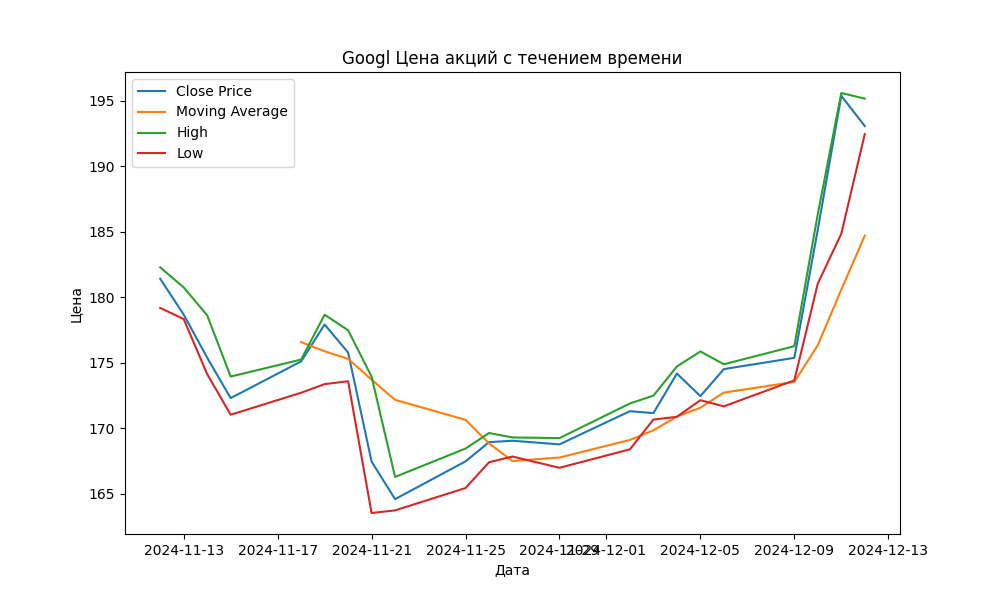
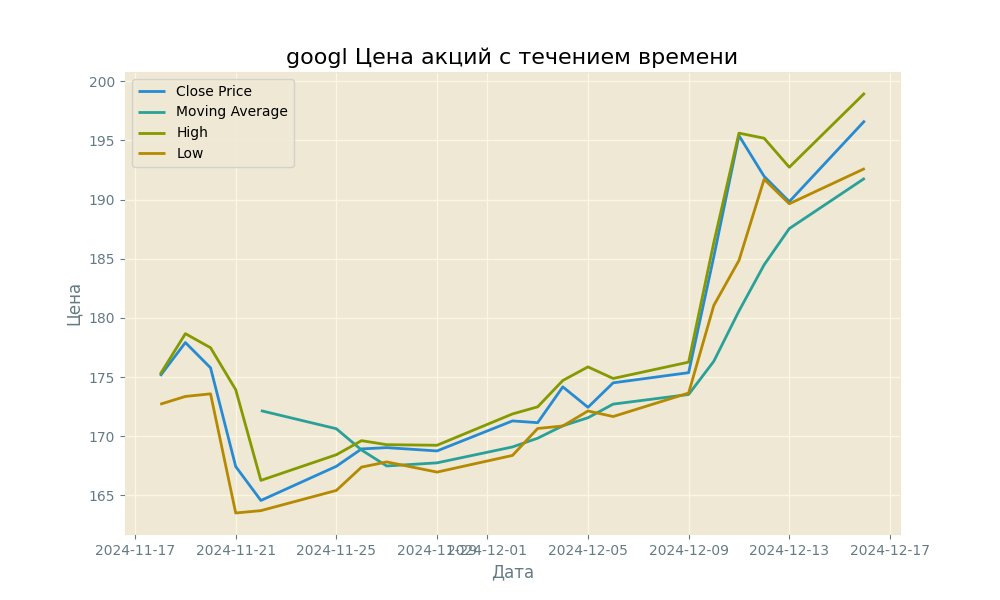
Initial

diff --git a/main.py b/main.py
@@ -10,7 +10,9 @@ def main():
           "AMZN (Amazon.com Inc), TSLA (Tesla Inc).")
     print("Общие периоды времени для данных о запасах включают: 1д, 5д, 1мес, 3мес, 6мес, 1г, "
           "2г, 5г, 10л, " "с начала года, макс.")
+    print()
     print(' ============= Ввод  исходных  данных ==================')
+    print()
     ticker = input("Введите тикер акции (например, «AAPL» для Apple Inc):»")
     x = input("Выберите диапазон дат анализа  данных - период ('P')  либо даты начала и конца ('D) ")
     print(x)
@@ -32,8 +34,9 @@ def main():
     i = int(input("Введите номер желательного стиля графика 'style' из  приведенного списка(0,4,5,8,9,11,16,26):"))
     style = plt.style.available[i]
     print('style =', style)
-
+    print()
     print("******************** POGRAMM  START *****************************")
+    print()
 
     # Fetch stock data
     if x.lower() == 'p':
@@ -56,6 +59,9 @@ def main():
 
     # Price fluctuation  analysis
     dd.notify_if_strong_fluctuations(stock_data, threshold)
+
+    # Standard_deviation of Closed price calculation
+    st_dev = dd.calculate_and_display_standard_deviation(stock_data)
 
     # RSI  calculftion
     rsi = dd.rsi_calculation(stock_data)

diff --git a/data_download.py b/data_download.py
@@ -1,4 +1,5 @@
 import yfinance as yf
+import statistics
 
 
 def fetch_stock_data(ticker, period='1mo'):
@@ -76,7 +77,7 @@ def rsi_calculation(data):
     """
     change = data["Close"].diff()
     change.dropna(inplace=True)
-    print("==========================")
+#    print("==========================")
 
     # Create two copies of the Closing price Series
     change_up = change.copy()
@@ -92,5 +93,17 @@ def rsi_calculation(data):
     avg_up = change_up.rolling(14).mean()
     avg_down = change_down.rolling(14).mean().abs()
     rsi = 100 * avg_up / (avg_up + avg_down)
-
     return rsi
+
+def calculate_and_display_standard_deviation(data):
+    """
+    function get DataFrame(data), calculate
+    standard_deviation price of "Closed" data.
+    Result is printed out in console.
+    """
+    x = statistics.stdev(data['Close'])
+#    x = data['Close'].mean()
+    print('--------------------------------------------------')
+    print('Standard_deviation of Closed price for period  is:', round(x, 3))
+    print('--------------------------------------------------')
+    return x

diff --git a/readme.md b/readme.md
@@ -12,11 +12,11 @@
 
 - Является точкой входа в программу.
 
-- Запрашивает у пользователя тикер акции,  временной период  и   порог  анализа  колебаний  цены; загружает данные, обрабатывает их и выводит результаты на  консоль,  в виде графика  и  сохраненных  файлов.
+- Запрашивает у пользователя тикер акции,  временной период  и   порог  анализа  колебаний  цены; загружает данные, обрабатывает их и выводит результаты на  консоль,  в виде графиков  и  сохраненных  файлов.
 
 #### 2. **data_download.py:**
 
-- Отвечает за загрузку данных об акциях.
+- Отвечает за загрузку и обработку данных об акциях.
 
 - Содержит функции:
 
@@ -27,6 +27,8 @@
         порогом
       - сохранения  файла  данных  в  формате .csv
       - расчета  RSI
+      - расчета стандартного отклонения цены от среднего значения
+    - 
   - 
 -
 
@@ -34,8 +36,8 @@
 
 - Отвечает за визуализацию данных.
 
-- Содержит функции для создания и сохранения графиков цен закрытия и скользящих средних
-- Содержит  функции для  создания и сохранения графиков RSI
+- - Содержит функции для создания и сохранения графиков цен закрытия и скользящих средних
+- - Содержит  функции для  создания и сохранения графиков RSI
 
       
       
@@ -48,42 +50,48 @@
 #### 2. **data_download.py:**
 
 - **fetch_stock_data(ticker, period):** 
-    Получает исторические данные об акциях для указанного тикера и временного периода. Возвращает DataFrame с данными.
+- - Получает исторические данные об акциях для указанного тикера и временного периода. Возвращает DataFrame с данными.
 
 - **fetch_stock_data_1(ticker, start, end):** 
-    Получает данные об акциях для указанного тикера в диапазоне дат "start - end". Возвращает DataFrame с данными.
+- - Получает данные об акциях для указанного тикера в диапазоне дат "start - end". Возвращает DataFrame с данными.
 
 - **add_moving_average(data, window_size):** 
-    Добавляет в DataFrame колонку со скользящим средним, рассчитанным на основе цен закрытия.
+- - Добавляет в DataFrame колонку со скользящим средним, рассчитанным на основе цен закрытия.
 
 - **calculate_and_display_average_price(data):**
-    """
+- - """
     function calculate average price of "Closed" data.
     Result is printed out in console.
     """
 - **notify_if_strong_fluctuations(data, threshold):**
-    """
+- - """
     function get DataFrame(data),  calculate minimum  and maximum
     price, and compare ratio of minimum  and maximum  with
     given threshold. Result is printed out in console.
     """
 - **export_data_to_csv(data, filename):**
-    """
+- - """
     function get DataFrame(data) and save
     data as filename file in .csv format
     """
 - **rsi_calculation(data):**
-    """
-    function get DataFrame(data),  calculate  
+- - """
+    function get DataFrame(data),  calculate 
     and return RSI
+    """
+- **calculate_and_display_standard_deviation(data)**
+- - """
+    function get DataFrame(data), calculate
+    standard_deviation price of "Closed" data.
+    Result is printed out in console.
     """
 #### 3. **data_plotting.py:**
 
 - **create_and_save_plot(data, ticker, period, style, filename)** 
---  Создаёт график, отображающий цены закрытия и скользящие средние. Предоставляет возможность сохранения графика в файл. Параметр filename опционален; если он не указан, имя файла генерируется автоматически.
+- -  Создаёт график, отображающий цены закрытия и скользящие средние. Предоставляет возможность сохранения графика в файл. Параметр filename опционален; если он не указан, имя файла генерируется автоматически.
 
 - **create_and_save_rsi_plot(data, ticker, period, rsi, style, filename=None)**
---  Создаёт два  графика на одном листе, отображающие динамику цен закрытия и RSI  на отдельных  графиках. Предоставляет возможность сохранения графика в файл. Параметр filename опционален; если он не указан, имя файла генерируется автоматически.
+- -  Создаёт два  графика на одном листе, отображающие динамику цен закрытия и RSI  на отдельных  графиках. Предоставляет возможность сохранения графика в файл. Параметр filename опционален; если он не указан, имя файла генерируется автоматически.
 
 ## Пошаговое использование
 
@@ -93,7 +101,7 @@
 4. Введите желаемый временной период для анализа (например, '1mo' для данных за один месяц)
    либо  Даты начала и конца  анализа в формате Y-M-D.
 5. Введите порог  колебаний  средней  цены  акции в %.
-
+6. Введите номер желательного стиля графика 'style' из  приведенного списка(0,4,5,8,9,11,16,26)
 
 #### Программа
 
@@ -104,46 +112,39 @@
       - построит и сохранит график в .png файле  
       - выведет  в терминале данные  расчетов  средней  цены,
       - выведет  в терминале данные  о минимальной и максимальной  цене  и  результаты  анализа  относительно  порога.
+      - выведет данные расчетов стандартного отклонения цены от среднего значения
       - рассчитает RSI
       - построит и сохранит график в .png файле
 
 ## Примеры работы программы
 
 ### Терминал,  вариант 1:
-####============= Ввод  исходных  данных ==================
-- Введите тикер акции (например, «AAPL» для Apple Inc):»Googl
-Выберите диапазон дат анализа данных - период ('P') либо даты начала и конца ('D) d
- - - d
-- Введите дату начала анализа в формате Y-M-D): 2020-01-01
-- Введите дату конца анализа в формате Y-M-D): 2020-12-30
-- Введите порог оценки колебаний цены в %:15
-- "Введите номер желательного стиля графика 'style' из  приведенного списка(0,4,5,8,9,11,16,26):
-style = Solarize_Light2
-#### ******************** POGRAMM  START *****************************
- - - DataFrame сохранен как Googl_2020-01-01_2020-12-30_DataFrame.csv
- - - График сохранен как Googl_2020-01-01_2020-12-30_stock_price_chart.png
---------------------------------------------------
- - - Average closed price for period is: 73.844
---------------------------------------------------
- - - min price = 50.444 ; max price = 92.191
- - - Колебания цены за контрольный период БОЛЕЕ 15 % ( 83 % !!!)
- - - График сохранен как Googl_2020-01-01_2020-12-30_RSI_chart.png
+============= Ввод  исходных  данных ==================
 
-### Терминал, вариант 2:
- - Введите тикер акции (например, «AAPL» для Apple Inc):»Googl
- - Выберите диапазон дат анализа данных - период ('P') либо даты начала и конца ('D) p
- - - p
+ - Введите тикер акции (например, «AAPL» для Apple Inc):»googl
+ - Выберите диапазон дат анализа  данных - период ('P')  либо даты начала и конца ('D) p
+p
  - Введите период для данных (например, '1mo' для одного месяца): 1y
- - Введите порог оценки колебаний цены в %:15
- - - DataFrame сохранен как Googl_1y_DataFrame.csv
- - - График сохранен как Googl_1y_stock_price_chart.png
---------------------------------------------------
- - - Average closed price for period is: 175.242
---------------------------------------------------
-- - min price = 163.513 ; max price = 195.61
-- - Колебания цены за контрольный период БОЛЕЕ 15 % ( 20 % !!!)
-- - График сохранен как Googl_1y_RSI_chart.png
+ - Введите порог оценки колебаний цены в %:25
+ - Возможные стили графиков:  
+ - Введите номер желательного стиля графика 'style' из  приведенного списка(0,4,5,8,9,11,16,26):0
+ - - style = Solarize_Light2
 
+******************** POGRAMM  START *****************************
+
+ - DataFrame сохранен как googl_1y_DataFrame.csv
+ - График сохранен как googl_1y_stock_price_chart.png
+--------------------------------------------------
+    Average closed price for period  is: 176.646
+--------------------------------------------------
+ - min price =  163.513 ; max price =  199.0
+ - Колебания цены за контрольный период  НЕ БОЛЕЕ 25 %  !!!
+--------------------------------------------------
+    Standard_deviation of Closed price for period  is: 9.791
+--------------------------------------------------
+ - График сохранен как googl_1y_RSI_chart.png
+
+ - - Process finished with exit code 0
 ![Alt_text](Googl_5y_stock_price_chart.png){ : widht="50%" }
 ![Alt_text](Googl_5y_RSI_chart.png)
 
